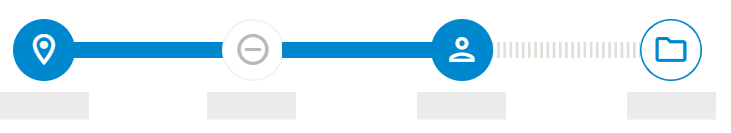
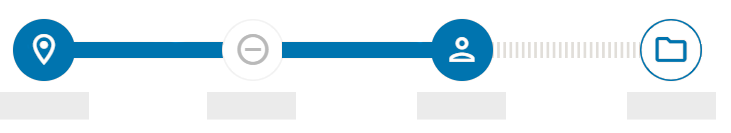
fix: change wcs primary color

Changed region(s): [[0.3611, 0.1504, 0.6922, 0.6015], [0.0, 0.1504, 0.3311, 0.6015], [0.8728, 0.1203, 0.9631, 0.6316]]

diff --git a/src/components/button/button.scss b/src/components/button/button.scss
@@ -5,8 +5,9 @@
 
 :host {
     display: inline-block;
+    // FIXME : remove those fallback values when design tokens are set
     --wcs-button-color: var(--wcs-contrast, var(--wcs-white, white));
-    --wcs-button-background-color: var(--wcs-base, var(--wcs-primary, #0088CE));
+    --wcs-button-background-color: var(--wcs-base, var(--wcs-primary, #0074AF));
     --wcs-button-ripple-color: var(--wcs-contrast, var(--wcs-white, white));
     --wcs-button-border-radius: var(--wcs-border-radius);
     --wcs-button-border-color: var(--wcs-base);

diff --git a/src/style/global.scss b/src/style/global.scss
@@ -17,7 +17,7 @@
     --wcs-text-disabled: #b9b9b9;
     --wcs-text-medium: #747678;
 
-    --wcs-blue: #0088CE;
+    --wcs-blue: #0074AF;
     --wcs-purple: #6e1e78;
     --wcs-pink: #a1006b;
     --wcs-red: #cd0037;

diff --git a/doc/gitlab-pages-redirect-root/index.html b/doc/gitlab-pages-redirect-root/index.html
@@ -17,7 +17,7 @@
         }
 
         a {
-            color: #0088ce;
+            color: #0074AF;
             font-weight: 600;
         }
         img {

diff --git a/doc/base.scss b/doc/base.scss
@@ -46,7 +46,7 @@ hr {
     align-items: center;
 
     &:hover {
-        color: #0074af;
+        color: #003865;
     }
 }
 

diff --git a/CHANGELOG.md b/CHANGELOG.md
@@ -31,6 +31,8 @@ To migrate, please refer to the storybook documentation (v4 to v5).
   - `wcs-select-option` => `options`
   - `wcs-select-filter-noresult` => `filter-no-result`
 
+- **css variables**: change global color `--wcs-blue` used by `--wcs-primary` for accessibility reasons (contrasts) from `#0088ce` to `#0074af`.
+
 ### Deprecated
 
 for soon-to-be removed features.
